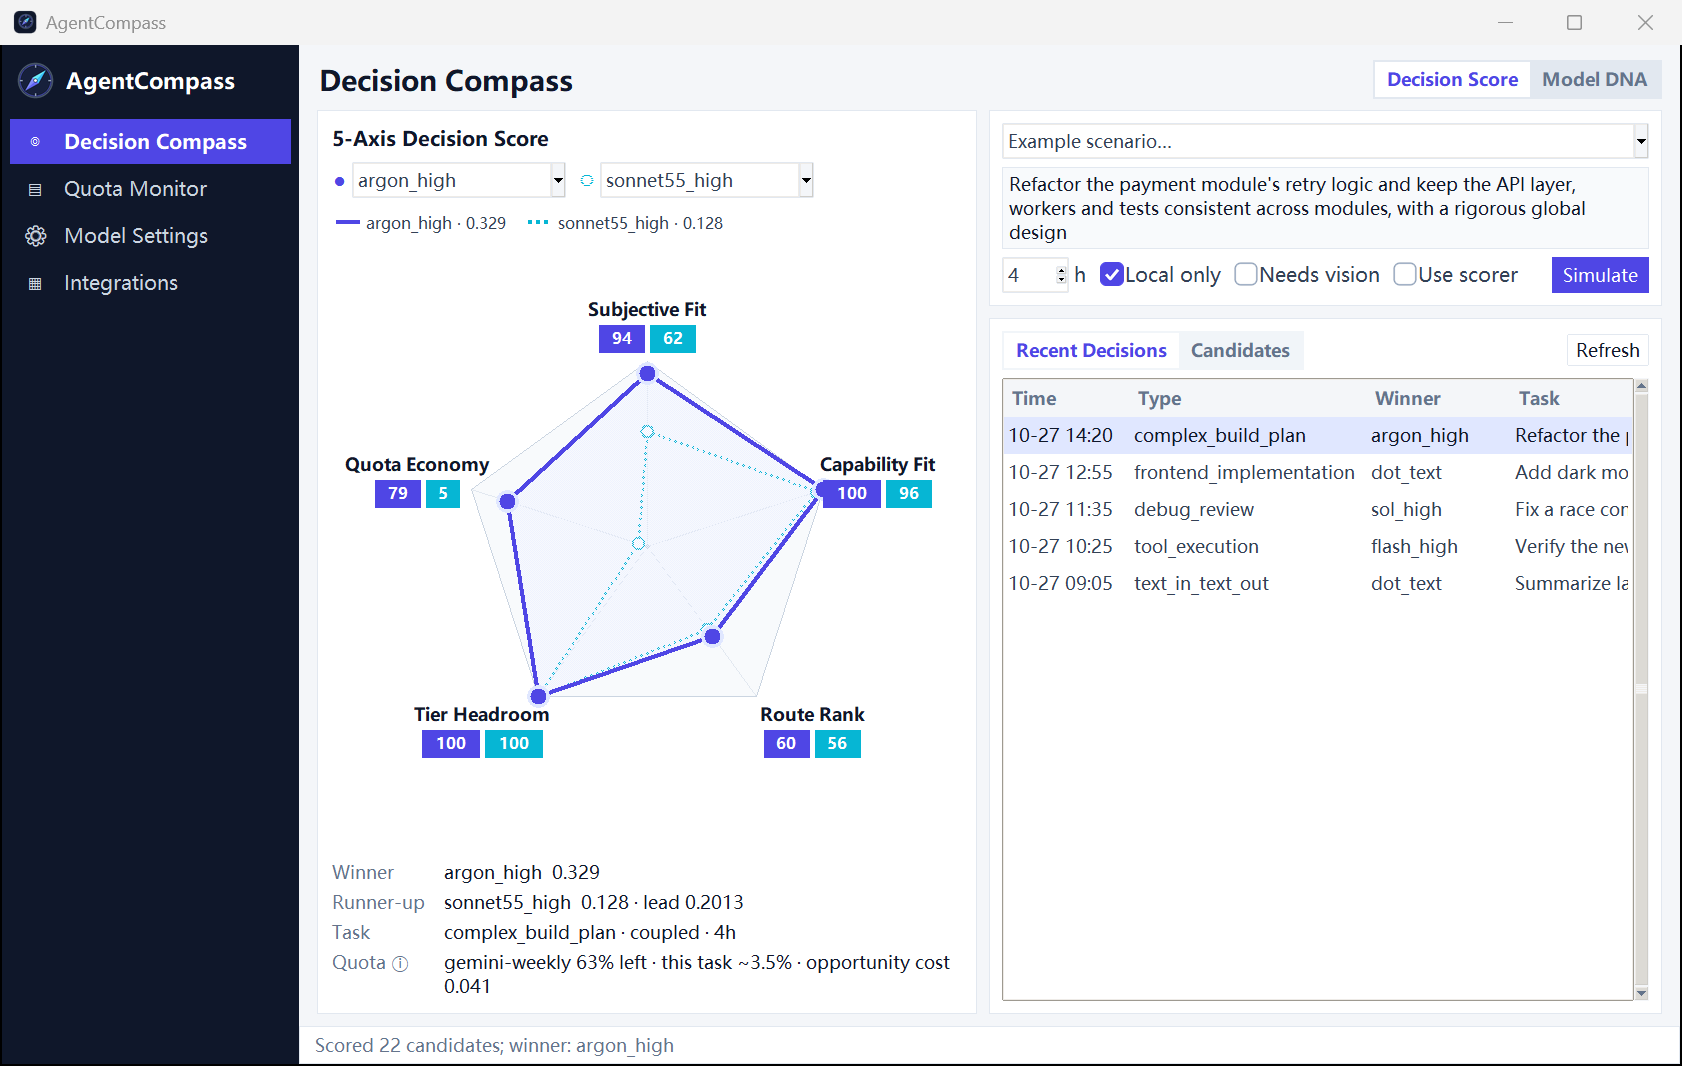
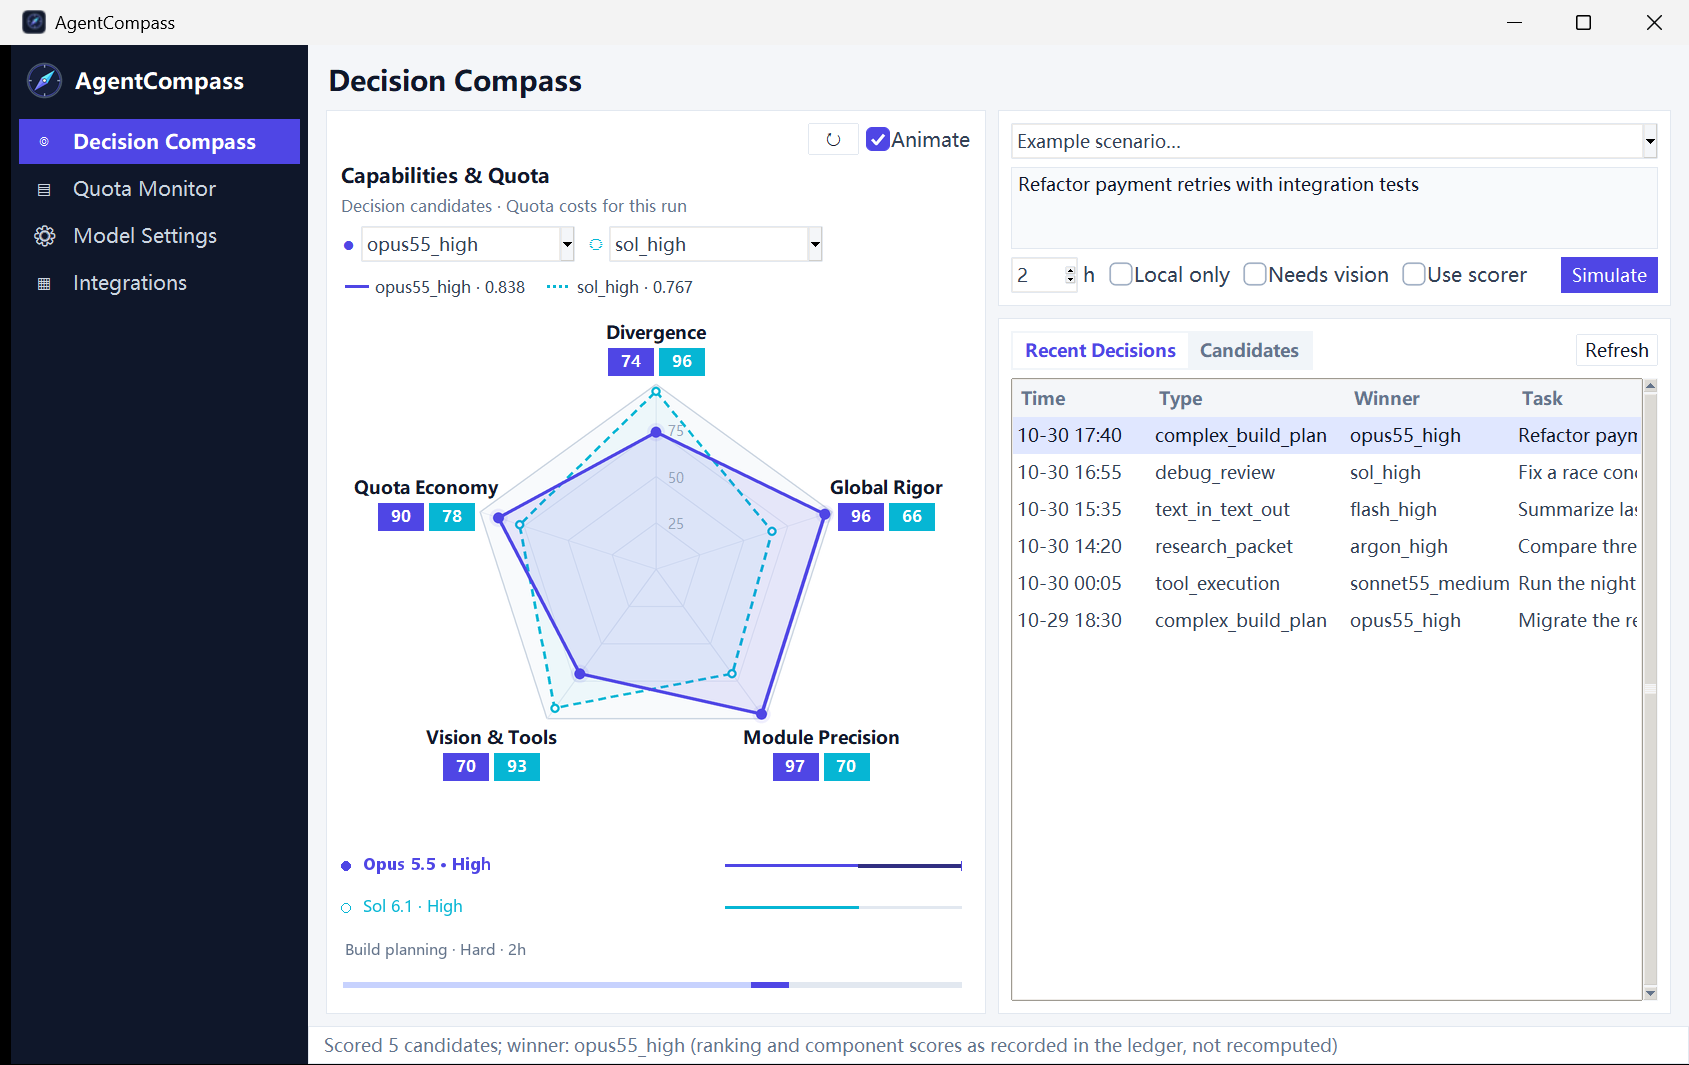
Refresh README and social images with the current Decision Compass UI
Hero and social card are now rendered from the real main window on a private,
never-displayed Win32 desktop with a temporary state dir, the neutral reference
fleet and synthetic decisions. The demo GIF's winner and runner-up now have
visibly different capability profiles. Generators live in docs/tools.

Changed region(s): [[0.0, 0.0, 1.0, 1.0], [0.4946, 0.8056, 0.5565, 0.8366], [0.9275, 0.0, 0.9584, 0.031]]

diff --git a/docs/tools/render_ui_screenshots.py b/docs/tools/render_ui_screenshots.py
@@ -1,0 +1,174 @@
+"""Render the real AgentCompass Decision Compass page off-screen with synthetic data (Windows).
+
+    python docs/tools/render_ui_screenshots.py <output.png> [--scale 1.5]
+
+The window lives on a private, never-displayed Win32 desktop (CreateDesktop) owned by a worker
+thread, is captured with PrintWindow, then destroyed. It never takes focus and never appears on
+the user's desktop. State lives in a temporary directory (neutral reference fleet, synthetic
+ledger); nothing under ~/.route-manager is read or written.
+"""
+from __future__ import annotations
+
+import argparse
+import ctypes
+import json
+import os
+from pathlib import Path
+import shutil
+import sys
+import tempfile
+import time
+
+ROOT = Path(__file__).resolve().parents[2]
+sys.path.insert(0, str(ROOT / "tray"))
+sys.path.insert(0, str(ROOT / "skills" / "route-agent-work" / "scripts"))
+sys.path.insert(0, str(Path(__file__).resolve().parent))
+
+
+
+def isolate(state: Path) -> None:
+    import allocator
+
+    accounts = state / "accounts.json"
+    shutil.copy(allocator.reference_fleet_path(), accounts)
+    policy = state / "host-policy.json"
+    policy.write_text(json.dumps({"allowed_accounts": list(json.loads(accounts.read_text("utf-8-sig"))["accounts"])}),
+                      encoding="utf-8")
+    os.environ.update({
+        "ROUTER_STATE_DIR": str(state), "ROUTER_ACCOUNTS_FILE": str(accounts),
+        "ROUTER_ACCOUNTS_OVERRIDE": str(state / "accounts-override.json"), "ROUTER_HOST_POLICY": str(policy),
+        "ROUTER_LEDGER": str(state / "ledger.jsonl"), "ROUTER_CAPACITY": str(state / "capacity.json"),
+        "USERPROFILE": str(state), "HOME": str(state),
+    })
+
+
+def write_ledger(path: Path) -> None:
+    import synthetic_decisions as demo
+
+    rows = [demo.decision_row(demo.HEADLINE, demo.HEADLINE_KIND, 2, "opus55_high", "2026-10-30T09:40:00+00:00")]
+    stamps = ("2026-10-30T08:55:00+00:00", "2026-10-30T07:35:00+00:00", "2026-10-30T06:20:00+00:00",
+              "2026-10-29T16:05:00+00:00", "2026-10-29T10:30:00+00:00")
+    for (objective, kind, hours, winner), at in zip(demo.HISTORY, stamps):
+        rows.append(demo.decision_row(objective, kind, hours, winner, at))
+    path.write_text("\n".join(json.dumps(row) for row in reversed(rows)) + "\n", encoding="utf-8")
+
+
+def capture(top: int, width: int, height: int):
+    import win32con
+    import win32gui
+    import win32ui
+    from PIL import Image
+
+    window_dc = win32gui.GetWindowDC(top)
+    source = win32ui.CreateDCFromHandle(window_dc)
+    memory = source.CreateCompatibleDC()
+    bitmap = win32ui.CreateBitmap()
+    bitmap.CreateCompatibleBitmap(source, width, height)
+    memory.SelectObject(bitmap)
+    ctypes.windll.user32.PrintWindow(top, memory.GetSafeHdc(), 2)  # PW_RENDERFULLCONTENT
+    info = bitmap.GetInfo()
+    raw = bitmap.GetBitmapBits(True)
+    image = Image.frombuffer("RGB", (info["bmWidth"], info["bmHeight"]), raw, "raw", "BGRX", 0, 1)
+    win32gui.DeleteObject(bitmap.GetHandle())
+    memory.DeleteDC()
+    source.DeleteDC()
+    win32gui.ReleaseDC(top, window_dc)
+    return image
+
+
+def render(args, state: Path) -> None:
+    import i18n
+    i18n.get_language = lambda: "en"
+    import allocator
+    import route_judge
+    import router_data
+    router_data.modules = lambda: (allocator, route_judge)
+    router_data.STATE_DIR = state
+    import decision_theatre
+    import router_window
+    import synthetic_decisions as demo
+    import ui_theme
+    import tkinter as tk
+    import win32gui
+
+    root = tk.Tk()
+    root.withdraw()
+    root.tk.call("tk", "scaling", 96 * args.scale / 72)
+    panel = router_window.Panel(root, "scoring")
+    panel.theatre_enabled.set(False)
+    root.deiconify()
+    deadline = time.time() + 30
+    while time.time() < deadline and not (panel.plan_result and panel.ledger_rows):
+        root.update()
+        time.sleep(0.05)
+    for _ in range(40):
+        root.update()
+        time.sleep(0.02)
+    # Freeze the theatre at the radar-comparison moment; the real canvas draws it.
+    decision_theatre.story_time = lambda wall: args.moment
+    panel.theatre.skip()
+    if args.view == "radar":
+        panel.render_radar()  # the static radar a user gets by picking a candidate
+    panel.theatre_enabled.set(True)  # the default; only the freeze above turned it off
+    panel.objective.insert("1.0", demo.HEADLINE)
+    for column, width in (("at", 92), ("kind", 130), ("choice", 112), ("task", 96)):
+        panel.ledger_table.column(column, width=ui_theme.px(width))
+    panel._suppress_next_select = True
+    panel.ledger_table.selection_set("0")
+    for _ in range(20):
+        root.update()
+        time.sleep(0.02)
+    top = ctypes.windll.user32.GetParent(root.winfo_id())
+    left, topy, right, bottom = win32gui.GetWindowRect(top)
+    image = capture(top, right - left, bottom - topy)
+    # PrintWindow includes the invisible resize border; keep the visible frame only.
+    image = image.crop((0, 0, image.width - round(11 * args.scale / 1.5), image.height - round(10 * args.scale / 1.5)))
+    args.output.parent.mkdir(parents=True, exist_ok=True)
+    image.save(args.output)
+    print(f"{args.output} {image.width}x{image.height}")
+    panel.closing = True
+    root.destroy()
+
+
+def main() -> None:
+    import threading
+
+    parser = argparse.ArgumentParser()
+    parser.add_argument("output", type=Path)
+    parser.add_argument("--scale", type=float, default=1.5, help="display scale, 1.5 = 150%% DPI")
+    parser.add_argument("--view", choices=("radar", "theatre"), default="radar")
+    parser.add_argument("--moment", type=float, default=7.75, help="theatre story time (s) to freeze")
+    args = parser.parse_args()
+    import ui_theme
+    ui_theme.dpi_aware()
+    user32 = ctypes.windll.user32
+    user32.CreateDesktopW.restype = ctypes.c_void_p
+    user32.SetThreadDesktop.argtypes = [ctypes.c_void_p]
+    desktop = user32.CreateDesktopW("agentcompass-shot", None, None, 0, 0x10000000, None)
+    if not desktop:
+        raise OSError("CreateDesktop failed; refusing to draw on the user's desktop")
+    errors = []
+    with tempfile.TemporaryDirectory(prefix="agentcompass-shot-") as directory:
+        state = Path(directory)
+        isolate(state)
+        write_ledger(state / "ledger.jsonl")
+
+        def work():
+            try:
+                if not user32.SetThreadDesktop(desktop):
+                    raise OSError("SetThreadDesktop failed; refusing to draw on the user's desktop")
+                render(args, state)
+            except BaseException as exc:
+                import traceback
+                errors.append(traceback.format_exc())
+
+        thread = threading.Thread(target=work)
+        thread.start()
+        thread.join()
+    user32.CloseDesktop(ctypes.c_void_p(desktop))
+    if errors:
+        raise SystemExit(errors[0])
+
+
+if __name__ == "__main__":
+    main()

diff --git a/docs/tools/render_social_preview.py b/docs/tools/render_social_preview.py
@@ -1,0 +1,73 @@
+"""Compose docs/social-preview.png (1280x640) from a UI screenshot: python docs/tools/render_social_preview.py <screenshot.png>
+
+Windows only (Segoe UI). Pass the output of render_ui_screenshots.py.
+"""
+from __future__ import annotations
+
+from pathlib import Path
+import sys
+
+from PIL import Image, ImageDraw, ImageFilter, ImageFont
+
+ROOT = Path(__file__).resolve().parents[2]
+OUTPUT = ROOT / "docs" / "social-preview.png"
+FONTS = Path("C:/Windows/Fonts")
+BG, ACCENT, WHITE = (16, 23, 39), (165, 160, 255), (255, 255, 255)
+HEAD, SUB, TAG, MUTED, RULE, FRAME = (245, 247, 255), (185, 197, 218), (189, 201, 221), (143, 159, 185), (51, 64, 89), (72, 88, 118)
+POINTS = (("01", "Task-aware routing", "Match model ability to the work."),
+          ("02", "Quota economics", "Plan around 5h / 7d windows."),
+          ("03", "Auditable decisions", "See every score and exclusion."))
+
+
+def font(name: str, size: int) -> ImageFont.FreeTypeFont:
+    return ImageFont.truetype(str(FONTS / name), size)
+
+
+def ink(draw, x, y, text, face, fill, right=False, tracking=0.0):
+    """Draw text so its ink box starts at (x, y), or ends at x when `right`."""
+    if tracking:
+        width = sum(face.getlength(c) + tracking for c in text) - tracking
+    else:
+        width = face.getlength(text)
+    left, top = face.getbbox(text)[:2]
+    x0 = x - width if right else x
+    if tracking:
+        cursor = x0
+        for char in text:
+            draw.text((cursor, y - top), char, font=face, fill=fill)
+            cursor += face.getlength(char) + tracking
+    else:
+        draw.text((x0 - left, y - top), text, font=face, fill=fill)
+
+
+def main() -> None:
+    shot = Image.open(sys.argv[1]).convert("RGB")
+    card = Image.new("RGB", (1280, 640), BG)
+    draw = ImageDraw.Draw(card)
+    draw.rectangle((0, 0, 1280, 7), fill=ACCENT)
+    ink(draw, 48, 47, "AgentCompass", font("segoeuib.ttf", 58), WHITE)
+    ink(draw, 50, 111, "The right AI worker. The right quota. Every task.", font("segoeuil.ttf", 26), TAG)
+    draw.line((48, 155, 1232, 155), fill=RULE)
+    for index, (number, heading, sub) in enumerate(POINTS):
+        top = 113 * index
+        ink(draw, 49, 207 + top, number, font("segoeuib.ttf", 17), ACCENT)
+        ink(draw, 88, 202 + top, heading, font("segoeuib.ttf", 25), HEAD)
+        ink(draw, 89, 237 + top, sub, font("segoeui.ttf", 18), SUB)
+    ink(draw, 50, 602, "github.com/akiiwa-games/AgentCompass", font("segoeui.ttf", 17), MUTED)
+    ink(draw, 1195, 602, "MIT / OPEN SOURCE", font("seguisb.ttf", 16), ACCENT, right=True)
+
+    width = 652
+    height = round(width * shot.height / shot.width)
+    window = shot.resize((width, height), Image.Resampling.LANCZOS)
+    left, top = 521, 175
+    shadow = Image.new("RGBA", card.size, (0, 0, 0, 0))
+    ImageDraw.Draw(shadow).rectangle((left + 2, top + 8, left + width + 2, top + height + 8), fill=(0, 0, 0, 150))
+    card = Image.alpha_composite(card.convert("RGBA"), shadow.filter(ImageFilter.GaussianBlur(10)))
+    card.paste(window, (left, top))
+    ImageDraw.Draw(card).rectangle((left - 1, top - 1, left + width, top + height), outline=FRAME)
+    card.convert("RGB").save(OUTPUT, optimize=True)
+    print(f"{OUTPUT}: {OUTPUT.stat().st_size:,} bytes")
+
+
+if __name__ == "__main__":
+    main()

diff --git a/docs/tools/synthetic_decisions.py b/docs/tools/synthetic_decisions.py
@@ -1,0 +1,62 @@
+"""Synthetic, illustrative decision snapshots shared by the README image tools.
+
+Values are made up to show the UI: not benchmark claims, not live allocation inputs, no account data.
+Score = mean(four capabilities) - opportunity cost + reset bonus - effort penalty.
+"""
+from __future__ import annotations
+
+AXES = ("divergence", "global_rigor", "module_precision", "capability")
+HEADLINE = "Refactor payment retries with integration tests"
+
+# (bundle id, model, effort, four abilities, opportunity cost, reset bonus, effort penalty)
+# The winner is rigor/precision-heavy and the runner-up divergence/vision-heavy, so the radar polygons differ.
+HEADLINE_SPECS = (
+    ("opus55_high", "claude-opus-5-5", "high", (.74, .96, .97, .70), .025, .04, .02),
+    ("sol_high", "gpt-6.1-sol", "high", (.96, .66, .70, .93), .045, .02, .02),
+    ("argon_high", "gemini-4-argon-high", "high", (.90, .58, .64, .97), .075, .01, .03),
+    ("sonnet55_medium", "claude-sonnet-5-5", "medium", (.72, .78, .84, .72), .035, .02, .01),
+    ("flash_high", "gemini-3.8-flash-high", "medium", (.65, .64, .68, .70), .020, .01, .01),
+)
+
+HEADLINE_KIND = "complex_build_plan"
+
+# Older rows for the "Recent decisions" list: (objective, kind, hours, winning bundle id)
+HISTORY = (
+    ("Fix a race condition in the upload queue", "debug_review", 1, "sol_high"),
+    ("Summarize last week's release notes", "text_in_text_out", 0.5, "flash_high"),
+    ("Compare three caching strategies for the API", "research_packet", 2, "argon_high"),
+    ("Run the nightly lint and type checks", "tool_execution", 1, "sonnet55_medium"),
+    ("Migrate the report exporter to the new schema", "complex_build_plan", 3, "opus55_high"),
+)
+
+
+def ranking(specs=HEADLINE_SPECS, winner=None):
+    """Allocator-shaped ranking; `winner` (a bundle id) is moved to the top by a small bonus when given."""
+    rows = []
+    for index, (bundle_id, model, effort, abilities, cost, bonus, penalty) in enumerate(specs):
+        excluded = ["below task ability floor"] if bundle_id == "flash_high" and winner != "flash_high" else []
+        boost = .12 if bundle_id == winner and winner != specs[0][0] else 0.0
+        components = dict(zip(AXES, abilities))
+        components.update(opportunity_cost=cost, reset_bonus=bonus + boost, effort_penalty=penalty)
+        rows.append({
+            "id": bundle_id,
+            "bundle": {"model": model, "effort": effort},
+            "score": None if excluded else round(sum(abilities) / 4 - cost + bonus + boost - penalty, 4),
+            "components": components,
+            "excluded": excluded,
+            "capacity": {"remaining": 72 - index * 7},
+            "expected_pct": 6,
+        })
+    return rows
+
+
+def decision_row(objective, kind, hours, winner, at, specs=HEADLINE_SPECS, difficulty="hard"):
+    """A ledger `plan` row carrying an immutable decision snapshot, as the router writes it."""
+    rows = ranking(specs, winner)
+    return {
+        "stage": "plan", "choice": winner, "kind": kind, "objective": objective, "at": at, "margin": 0.08,
+        "decision_snapshot": {
+            "task": {"objective": objective, "work_kind": kind, "difficulty": difficulty, "hours": hours},
+            "ranking": rows, "choice": winner,
+        },
+    }

diff --git a/docs/tools/render_theatre_demo.py b/docs/tools/render_theatre_demo.py
@@ -11,6 +11,8 @@ ROOT = Path(__file__).resolve().parents[2]
 sys.path.insert(0, str(ROOT / "tray"))
 
 import i18n
+sys.path.insert(0, str(Path(__file__).resolve().parent))
+import synthetic_decisions as demo
 
 # Force English in this process before building the scene; never load/save UI settings.
 i18n.get_language = lambda: "en"
@@ -24,41 +26,14 @@ OUTPUT = ROOT / "docs" / "decision-theatre.gif"
 
 
 def synthetic_result():
-    # Illustrative values only, not benchmark claims or live allocation inputs.
-    # Score = mean(four capabilities) - opportunity cost + reset bonus - effort penalty.
-    specs = [
-        ("claude-opus-5-5", "high", (.82, .94, .96, .78), .025, .04, .02),
-        ("gpt-6.1-sol", "high", (.76, .88, .94, .84), .045, .02, .02),
-        ("gemini-4-argon-high", "high", (.95, .82, .77, .86), .075, .01, .03),
-        ("claude-sonnet-5-5", "medium", (.72, .78, .84, .72), .035, .02, .01),
-        ("gemini-3.8-flash-high", "medium", (.65, .64, .68, .70), .020, .01, .01),
-    ]
-    ranking = []
-    for index, (model, effort, abilities, cost, bonus, penalty) in enumerate(specs):
-        excluded = ["below task ability floor"] if index == 4 else []
-        components = dict(zip(("divergence", "global_rigor", "module_precision", "capability"), abilities))
-        components.update(opportunity_cost=cost, reset_bonus=bonus, effort_penalty=penalty)
-        ranking.append({
-            "id": f"demo-{index + 1}",
-            "bundle": {"model": model, "effort": effort},
-            "score": None if excluded else round(sum(abilities) / 4 - cost + bonus - penalty, 4),
-            "components": components,
-            "excluded": excluded,
-            "capacity": {"remaining": 72 - index * 7},
-            "expected_pct": 6,
-        })
-    return theatre.snapshot_result({"decision_snapshot": {
-        "task": {"objective": "Refactor payment retries with integration tests",
-                 "work_kind": "general_implementation", "difficulty": "hard", "hours": 2},
-        "ranking": ranking,
-        "choice": "demo-1",
-    }})
+    row = demo.decision_row(demo.HEADLINE, demo.HEADLINE_KIND, 2, "opus55_high", "2026-10-30T09:00:00+00:00")
+    return theatre.snapshot_result(row)
 
 
 def main():
     result = synthetic_result()
     scene = theatre.scene_from_result(result)
-    assert not scene.recomputed and scene.winner.id == "demo-1"
+    assert not scene.recomputed and scene.winner.id == "opus55_high"
     stage = theatre.TheatreRenderer(scene, WIDTH, STAGE_HEIGHT, SCALE)
     strip = summary.SummaryRenderer(
         summary.summary_model(result, router_data.decision_pair(result)), WIDTH, SCALE

diff --git a/README.md b/README.md
@@ -16,7 +16,7 @@ alongside observed quota windows, spending surplus before resets, rotating worke
 ![Router](https://img.shields.io/badge/router-Python%20%2B%20JSON-555)
 ![Cockpit](https://img.shields.io/badge/cockpit-Windows%2011-0078D4)
 
-<img src="docs/hero.png" width="880" alt="AgentCompass decision compass: candidate scores and model-DNA radar">
+<img src="docs/hero.png" width="880" alt="AgentCompass Decision Compass: radar comparison of the winning and runner-up candidates, verdict strip and recent decisions">
 
 <sub>The author's Windows cockpit (optional). The router underneath is a portable Python Agent Skill (<code>SKILL.md</code>) with JSON config · <a href="llms.txt"><code>llms.txt</code></a></sub>
 
